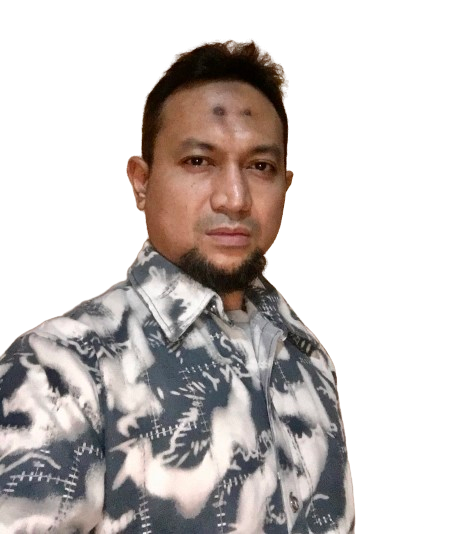
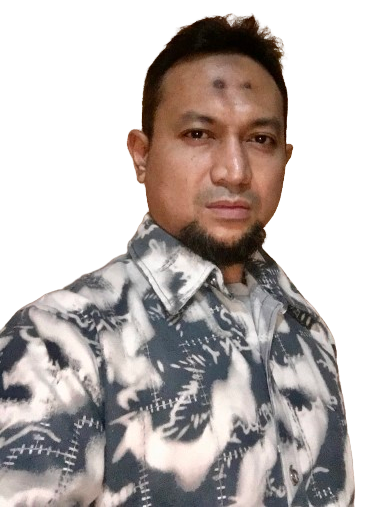
created a branch

diff --git a/app/_components/FirstPage.js b/app/_components/FirstPage.js
@@ -1,9 +1,10 @@
 "use client";
 
-import { FaWhatsapp } from "react-icons/fa6";
+import Whatsapp from "@/app/_components/Whatsapp";
 import AOS from "aos";
 import "aos/dist/aos.css";
 import { useEffect } from "react";
+import Image from "next/image";
 
 function FirstPage() {
   useEffect(() => {
@@ -13,34 +14,52 @@ function FirstPage() {
   return (
     <div
       id="green"
-      className=" flex flex-col items-center h-[100vh] w-full max-w-7xl sm:flex-row sm:justify-center sm:gap-3">
-      <div>
+      className="flex flex-col items-center w-full max-w-4xl sm:flex-row sm:justify-center sm:gap-8 sm:items-center pt-[50px]"
+    >
+      <div className="flex flex-col gap-3 ">
         <div>
-          <p className="text-white text-[14px] mb-3 text-lg sm:text-2xl">
+          <p className="text-white text-[14px] mb-3 text-md ">
             Welcome to my world{" "}
           </p>
-          <p className=" text-white text-2xl font-bold text-center sm:text-4xl">
+          <p className="text-xl font-bold text-center text-white sm:text-xl">
             Hi, I am <span className="text-[#ad1344]">Derik Aquary</span>, a
             Developer.
           </p>
         </div>
-        <div className="flex flex-col items-center sm:items-start">
-          <div className="bg-my_photo bg-cover bg-center h-[220px] w-[220px] rounded-xl ml-[20px] my-[15px] sm:h-[360px] sm:w-[380px]"></div>
-          <p className=" justify-center text-xl text-white flex flex-row gap-1 sm:gap-3 sm:text-3xl sm:ml-[20px]">
-            <FaWhatsapp size={30} className="sm:text-4xl sm:size-10" />{" "}
-            +6281268644726
-          </p>
+        <div className="flex flex-col items-center gap-3">
+          <div className=" relative h-[220px] rounded-full sm:w-[230px] bg-black/30">
+            <Image
+              src="/my_photo.png"
+              alt="my photo"
+              fill
+              className="object-contain rounded-full"
+            />
+          </div>
+          <div className="flex items-center justify-center gap-2 ">
+            <Whatsapp />
+            <p className="text-xl text-white sm:text-xl">+6281268644726</p>
+          </div>
         </div>
       </div>
-      <div className=" w-[300px] mt-6 sm:w-full">
-        <div className="grid grid-cols-2 gap-2">
-          <div className="rounded-xl bg-fcc bg-cover bg-center h-[80px] sm:h-[160px]"></div>
-          <div className=" rounded-xl bg-pdc bg-cover bg-center h-[80px] sm:h-[160px]"></div>
-          <div className="rounded-xl bg-oasis bg-cover bg-center h-[80px] sm:h-[160px]"></div>
-          <div className="rounded-xl bg-e_commerce bg-cover bg-center h-[80px] sm:h-[160px]"></div>
-          <div className="rounded-xl bg-chat bg-cover bg-center h-[80px] sm:h-[160px]"></div>
-          <div className="rounded-xl bg-ummu bg-cover bg-center h-[80px] sm:h-[160px]"></div>
-        </div>
+      <div className=" w-[300px] sm:w-full text-white text-justify">
+        <p >
+          Hello! I&#39;m a dedicated <span className="text-[#ad1344] ">front-end web developer</span>front-end web developer with over a year of
+          experience crafting engaging and efficient web interfaces. I
+          specialize in React.js, Next.js, Tailwind CSS, and JavaScript,
+          creating modern, responsive, and user-friendly websites. My journey in
+          web development began with a strong foundation in HTML and CSS, and I
+          quickly advanced to building complex, data-driven web applications.
+        </p>
+        <p className="mt-3">
+          I currently work as a developer for Expert Dream Builder, where I
+          manage the company&#39;s websites, enhance the online presence, and work
+          closely with the marketing team to align digital experiences with
+          business goals. Additionally, I have a thriving freelance career,
+          working on various projects, from e-commerce platforms to hospitality
+          websites, each time focusing on user experience and scalable
+          solutions.
+        </p>
+        <p className="mt-3">Let&#39;s connect and create something amazing together&#33;</p>
       </div>
     </div>
   );

diff --git a/app/page.js b/app/page.js
@@ -15,36 +15,9 @@ export default function Home() {
   }
 
   return (
-    <main className="flex flex-col items-center px-3">
+    <div className="flex flex-col items-center px-3">
       <Header handleSidebar={handleSidebar} />
-      <div
-        className={`sm:hidden ${
-          isOpen ? "max-h-[180px]" : "max-h-0"
-        } overflow-hidden bg-black/60 fixed top-15 left-0 right-0 px-[30px] border border-black z-[1000] transition-all duration-500 ease-in-out`}>
-        <div className="flex flex-col justify-between space-y-3">
-          <Link href="#fcc" className="text-white">
-            Calorie
-          </Link>
-          <Link href="#pdc" className="text-white">
-            Plant
-          </Link>
-          <Link href="#oasis" className="text-white">
-            Oasis
-          </Link>
-          <Link href="#ecommerce" className="text-white">
-            Ecommerce
-          </Link>
-          <Link href="#ummu" className="text-white">
-            UMY
-          </Link>
-        </div>
-      </div>
-      <div className="flex flex-col gap-3">
-        <FirstPage />
-        {contents.map((content) => (
-          <PageComponent content={content} key={content.id} />
-        ))}
-      </div>
-    </main>
+      <FirstPage />
+    </div>
   );
 }

diff --git a/app/_components/Whatsapp.js b/app/_components/Whatsapp.js
@@ -1,0 +1,18 @@
+import { FaWhatsapp } from "react-icons/fa";
+/* import { IoMailOutline } from 'react-icons/io5'; */
+
+export default function ContactButtons() {
+  return (
+    <div>
+      <div className="bg-green-600 rounded-full ">
+        <a
+          href="https://wa.me/6281268644726"
+          target="_blank"
+          rel="noopener noreferrer"
+        >
+          <FaWhatsapp size={30} color="white" />
+        </a>
+      </div>
+    </div>
+  );
+}
